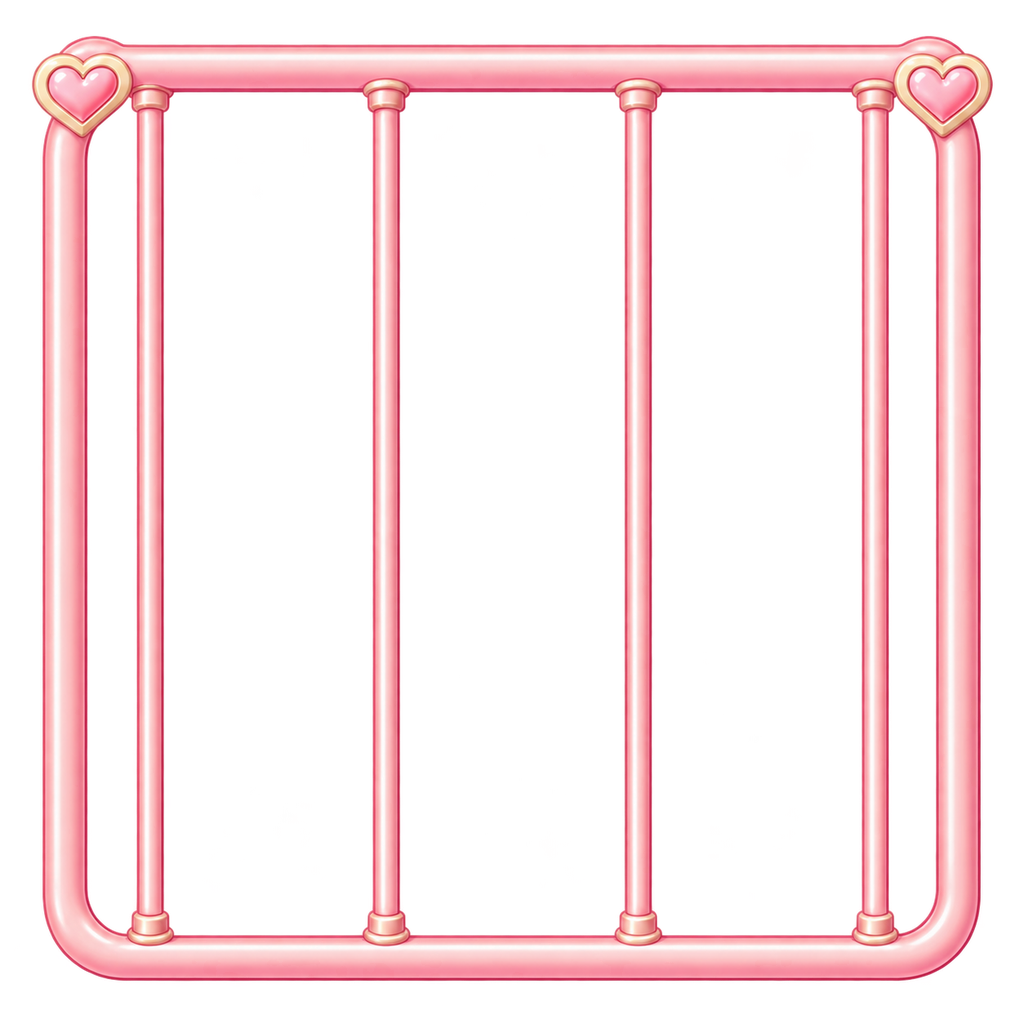
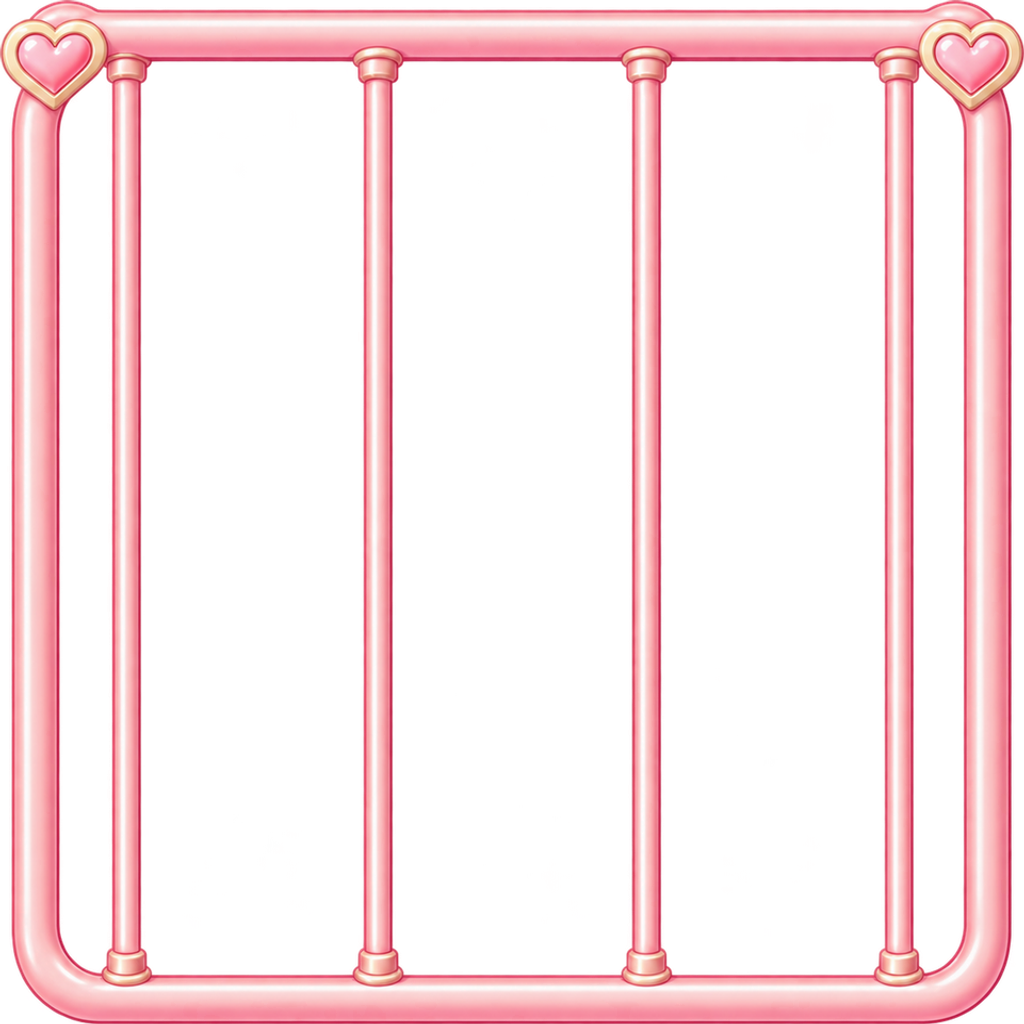
Choose cage style per cage in the preview; trim cage assets flush to the frame

diff --git a/src/MyCagesScreen.tsx b/src/MyCagesScreen.tsx
@@ -1,9 +1,10 @@
 import { useCallback, useEffect, useState } from 'react';
-import { Alert, FlatList, Modal, Platform, Pressable, StyleSheet, Text, View } from 'react-native';
+import { Alert, FlatList, Modal, Platform, Pressable, ScrollView, StyleSheet, Text, View } from 'react-native';
 import { Ionicons } from '@expo/vector-icons';
 import * as ImagePicker from 'expo-image-picker';
 import { useSafeAreaInsets } from 'react-native-safe-area-context';
 import { CageView } from './CageView';
+import { CAGE_STYLES, DEFAULT_STYLE_ID } from './cageStyles';
 import { createCage, deleteCage, loadCages, loadWidgetCageId, setWidgetCage, type Cage } from './cageStore';
 
 function confirmDelete(onOk: () => void) {
@@ -18,11 +19,12 @@ function confirmDelete(onOk: () => void) {
 }
 
 /** 自分で作った檻の一覧（横2列・正方形）。右下の＋で新規作成。 */
-export function MyCagesScreen({ styleId }: { styleId: string }) {
+export function MyCagesScreen() {
   const insets = useSafeAreaInsets();
   const [cages, setCages] = useState<Cage[]>([]);
   const [widgetId, setWidgetId] = useState<string | null>(null);
   const [pending, setPending] = useState<string | null>(null); // 選んだ直後でまだ保存していない画像
+  const [pendingStyle, setPendingStyle] = useState(DEFAULT_STYLE_ID); // プレビューで選んでいる檻のデザイン
   const [saving, setSaving] = useState(false);
 
   const refresh = useCallback(async () => {
@@ -40,6 +42,7 @@ export function MyCagesScreen({ styleId }: { styleId: string }) {
       quality: 1,
     });
     if (res.canceled) return;
+    setPendingStyle(DEFAULT_STYLE_ID);
     setPending(res.assets[0].uri);
   };
 
@@ -47,7 +50,7 @@ export function MyCagesScreen({ styleId }: { styleId: string }) {
     if (!pending || saving) return;
     setSaving(true);
     try {
-      await createCage(pending);
+      await createCage(pending, pendingStyle);
       setPending(null);
       refresh();
     } finally {
@@ -80,7 +83,7 @@ export function MyCagesScreen({ styleId }: { styleId: string }) {
         ListEmptyComponent={<Text style={styles.empty}>右下の＋から檻を作ろう</Text>}
         renderItem={({ item }) => (
           <Pressable style={styles.cell} onPress={() => use(item.id)} onLongPress={() => remove(item.id)}>
-            <CageView imageUri={item.uri} styleId={styleId} style={styles.cage} />
+            <CageView imageUri={item.uri} styleId={item.styleId} style={styles.cage} />
             {item.id === widgetId && (
               <View style={styles.badge}>
                 <Text style={styles.badgeText}>ウィジェット</Text>
@@ -93,10 +96,22 @@ export function MyCagesScreen({ styleId }: { styleId: string }) {
       <Modal visible={pending !== null} animationType="slide" onRequestClose={() => setPending(null)}>
         <View style={[styles.preview, { paddingTop: insets.top + 16, paddingBottom: insets.bottom + 16 }]}>
           <Text style={styles.title}>プレビュー</Text>
-          <Text style={styles.sub}>この檻に閉じ込めます</Text>
+          <Text style={styles.sub}>檻のデザインを選べます</Text>
           <View style={styles.previewCage}>
-            <CageView imageUri={pending} styleId={styleId} />
+            <CageView imageUri={pending} styleId={pendingStyle} />
           </View>
+          <ScrollView horizontal showsHorizontalScrollIndicator={false} style={styles.styleRow} contentContainerStyle={styles.styleRowContent}>
+            {CAGE_STYLES.map((s) => (
+              <Pressable key={s.id} onPress={() => setPendingStyle(s.id)} style={styles.styleItem}>
+                <CageView
+                  imageUri={pending}
+                  styleId={s.id}
+                  style={[styles.styleThumb, s.id === pendingStyle && styles.styleThumbActive]}
+                />
+                <Text style={[styles.styleName, s.id === pendingStyle && styles.styleNameActive]}>{s.name}</Text>
+              </Pressable>
+            ))}
+          </ScrollView>
           <View style={styles.previewButtons}>
             <Pressable style={[styles.btn, styles.btnGhost]} onPress={() => setPending(null)}>
               <Text style={styles.btnGhostText}>やめる</Text>
@@ -135,6 +150,13 @@ const styles = StyleSheet.create({
   badgeText: { color: '#14131a', fontSize: 10, fontWeight: '800' },
   preview: { flex: 1, backgroundColor: '#14131a', paddingHorizontal: 20 },
   previewCage: { marginTop: 20, width: '100%', maxWidth: 420, alignSelf: 'center' },
+  styleRow: { marginTop: 16, flexGrow: 0 },
+  styleRowContent: { gap: 10, paddingHorizontal: 2 },
+  styleItem: { width: 72, alignItems: 'center' },
+  styleThumb: { width: 72, borderRadius: 12, borderWidth: 2, borderColor: 'transparent' },
+  styleThumbActive: { borderColor: '#fff' },
+  styleName: { color: '#8d8a9f', fontSize: 10, fontWeight: '600', marginTop: 4 },
+  styleNameActive: { color: '#fff' },
   previewButtons: { marginTop: 'auto', flexDirection: 'row', gap: 12, maxWidth: 420, width: '100%', alignSelf: 'center' },
   btn: { flex: 1, borderRadius: 999, paddingVertical: 14, alignItems: 'center' },
   btnGhost: { backgroundColor: '#2c2a39' },

diff --git a/src/CageStylesScreen.tsx b/src/CageStylesScreen.tsx
@@ -1,39 +1,27 @@
-import { FlatList, Pressable, StyleSheet, Text, View } from 'react-native';
+import { FlatList, StyleSheet, Text, View } from 'react-native';
 import { useSafeAreaInsets } from 'react-native-safe-area-context';
 import { CageView } from './CageView';
 import { CAGE_STYLES } from './cageStyles';
 
-/** 使える檻（檻のデザイン）の一覧。横2列・正方形。タップで切り替え、マイ檻とウィジェットに反映される。 */
-export function CageStylesScreen({
-  styleId,
-  onSelect,
-}: {
-  styleId: string;
-  onSelect: (id: string) => void;
-}) {
+/** 使える檻（檻のデザイン）の一覧。横2列・正方形。 */
+export function CageStylesScreen() {
   const insets = useSafeAreaInsets();
   return (
     <View style={[styles.root, { paddingTop: insets.top + 8 }]}>
       <Text style={styles.title}>使える檻</Text>
-      <Text style={styles.sub}>タップで檻のデザインを切り替え</Text>
+      <Text style={styles.sub}>檻のデザインは、画像をアップしたあとのプレビューで選べます</Text>
       <FlatList
         data={CAGE_STYLES}
         keyExtractor={(s) => s.id}
         numColumns={2}
         columnWrapperStyle={styles.row}
         contentContainerStyle={styles.list}
-        renderItem={({ item }) => {
-          const active = item.id === styleId;
-          return (
-            <Pressable style={styles.cell} onPress={() => onSelect(item.id)}>
-              <CageView imageUri={null} styleId={item.id} style={[styles.thumb, active && styles.thumbActive]} />
-              <View style={styles.nameRow}>
-                <Text style={styles.name}>{item.name}</Text>
-                {active && <Text style={styles.using}>使用中</Text>}
-              </View>
-            </Pressable>
-          );
-        }}
+        renderItem={({ item }) => (
+          <View style={styles.cell}>
+            <CageView imageUri={null} styleId={item.id} style={styles.thumb} />
+            <Text style={styles.name}>{item.name}</Text>
+          </View>
+        )}
       />
     </View>
   );
@@ -46,9 +34,6 @@ const styles = StyleSheet.create({
   list: { paddingTop: 14, paddingBottom: 24 },
   row: { gap: 12, marginBottom: 12 },
   cell: { flex: 1, maxWidth: '50%' },
-  thumb: { borderRadius: 16, borderWidth: 3, borderColor: 'transparent' },
-  thumbActive: { borderColor: '#fff' },
-  nameRow: { flexDirection: 'row', alignItems: 'center', gap: 6, marginTop: 6, paddingHorizontal: 4 },
-  name: { color: '#e6e4f0', fontSize: 12, fontWeight: '600' },
-  using: { color: '#14131a', backgroundColor: '#fff', fontSize: 10, fontWeight: '800', borderRadius: 999, paddingHorizontal: 7, paddingVertical: 2, overflow: 'hidden' },
+  thumb: { borderRadius: 16 },
+  name: { color: '#e6e4f0', fontSize: 12, fontWeight: '600', marginTop: 6, paddingHorizontal: 4 },
 });

diff --git a/App.tsx b/App.tsx
@@ -1,33 +1,21 @@
-import { useEffect, useState } from 'react';
+import { useState } from 'react';
 import { StyleSheet, View } from 'react-native';
 import { StatusBar } from 'expo-status-bar';
 import { SafeAreaProvider } from 'react-native-safe-area-context';
 import { NavBar, type Tab } from './src/NavBar';
 import { MyCagesScreen } from './src/MyCagesScreen';
-import { DEFAULT_STYLE_ID, findStyle } from './src/cageStyles';
-import { loadStyleId, saveStyleId } from './src/cageStore';
 import { CageStylesScreen } from './src/CageStylesScreen';
 
 export default function App() {
   const [tab, setTab] = useState<Tab>('mine');
-  const [styleId, setStyleId] = useState(DEFAULT_STYLE_ID);
-
-  useEffect(() => {
-    loadStyleId().then((id) => id && setStyleId(findStyle(id).id));
-  }, []);
-
-  const selectStyle = (id: string) => {
-    setStyleId(id);
-    saveStyleId(id);
-  };
 
   return (
     <SafeAreaProvider>
       <StatusBar style="light" />
       <View style={styles.root}>
         <View style={styles.content}>
-          {tab === 'mine' && <MyCagesScreen styleId={styleId} />}
-          {tab === 'styles' && <CageStylesScreen styleId={styleId} onSelect={selectStyle} />}
+          {tab === 'mine' && <MyCagesScreen />}
+          {tab === 'styles' && <CageStylesScreen />}
         </View>
         <NavBar tab={tab} onChange={setTab} />
       </View>
